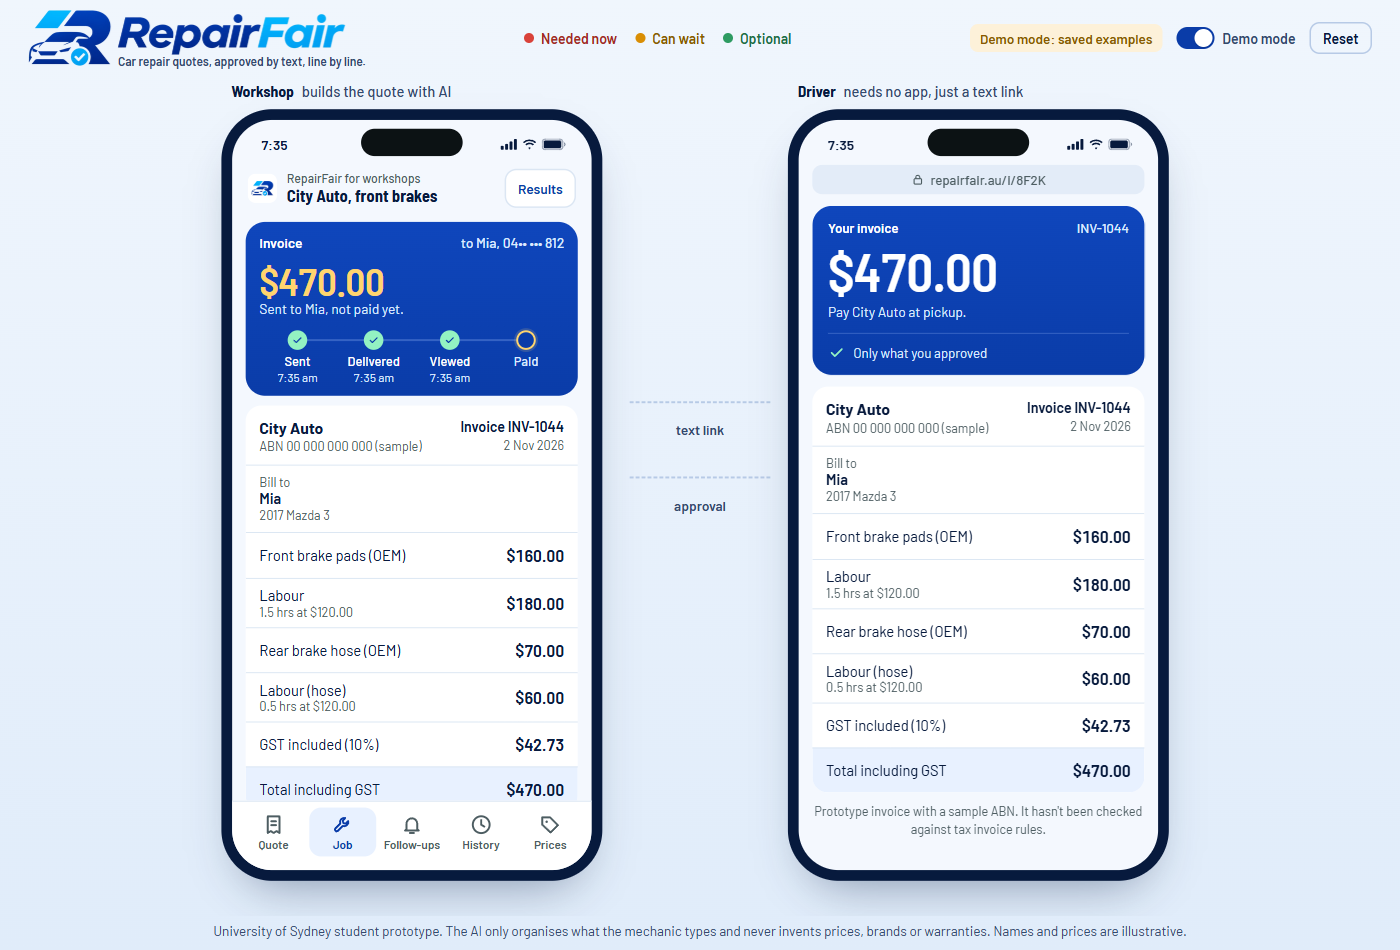
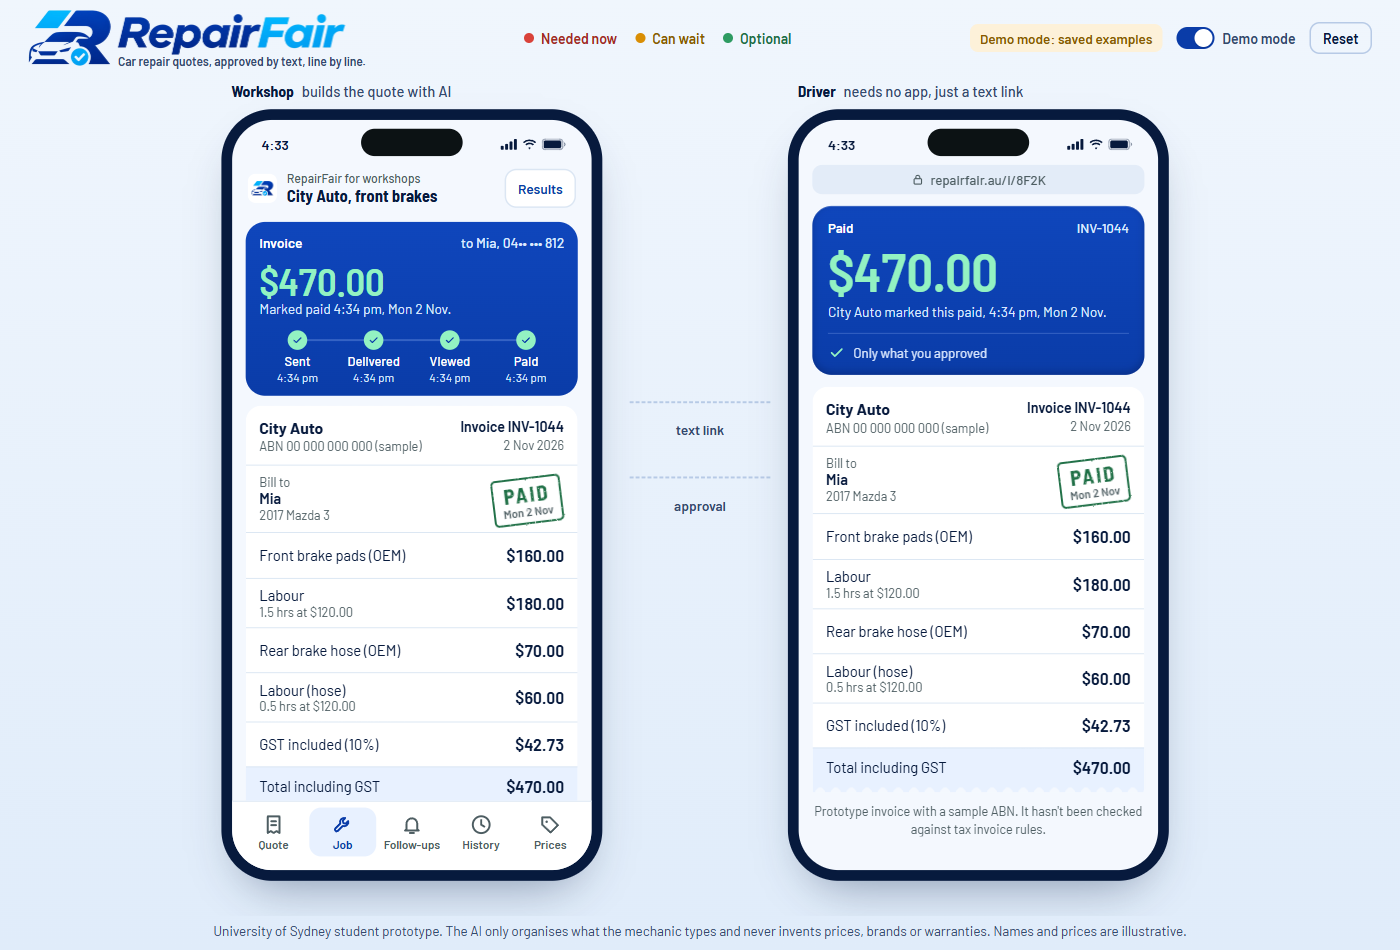
Give the app a hand-built car look

diff --git a/static/app.js b/static/app.js
@@ -22,6 +22,7 @@ const WORKSHOP = "City Auto";
 const SAMPLE_ABN = "00 000 000 000";
 const SAMPLE_PLATE = "DEMO-1044";  // too long to be a real plate, and always shown with "sample"
 const URGENCY = ["needed_now", "to_confirm", "can_wait", "optional"];
+const TACH_TICKS = 34;
 const PHONE_MASK = "04•• ••• 812";
 
 const SEED_HISTORY = [
@@ -73,7 +74,7 @@ const fresh = () => ({
   tab: "quote", ws: "compose", dr: "home", drBanner: null, stage: null, stageAt: {}, readyBy: null,
   notes: DEFAULT_NOTES, extraNotes: DEFAULT_EXTRA, reported: DEFAULT_REPORTED, suggest: null, suggesting: false,
   voice: { mode: "idle", source: null },
-  quote: null, extra: null, source: null, extraSource: null, notice: null, extraNotice: null,
+  shown: 0, quote: null, extra: null, source: null, extraSource: null, notice: null, extraNotice: null,
   err: null, extraResult: null,
   sentAt: null, deliveredAt: null, viewedAt: null, approvedAt: null, xero: null, inv: null, invOpen: false,
   lang: "en", trans: {}, transSource: null, transNotice: null, translating: false,
@@ -397,9 +398,10 @@ function checkPanel(q, group) {
     }).join("")}</div>`;
 }
 // The top of the job, like a job card. The plate's look isn't based on any state's design.
+const plate = () => `<span class="plate"><small>sample</small>${SAMPLE_PLATE}</span>`;
 function jobHead() {
   const q = state.quote;
-  return `<div class="jobhead"><span class="plate"><small>sample</small>${SAMPLE_PLATE}</span>
+  return `<div class="jobhead">${plate()}
     <span class="jh-t"><b>${esc(q.car || "Job 1044")}</b><span>${esc(customer())}${q.car ? ", job 1044" : ""}</span></span></div>`;
 }
 function refreshCheck(group) {
@@ -473,7 +475,7 @@ function wsQuoteTab() {
   switch (state.ws) {
     case "compose":
       // The notes fill the screen like a job card; the build button sits in the dock below
-      return `${wsReported()}<label class="notes-card"><span class="nc-top"><b>Mechanic's notes</b><span>Job 1044, checked in 8:05 am</span></span>
+      return `${wsReported()}<label class="notes-card"><span class="nc-top"><span><b>Mechanic's notes</b><small>Job 1044, checked in 8:05 am</small></span>${plate()}</span>
           <textarea id="notes">${esc(state.notes)}</textarea>
           <span class="photos"><span class="ph">${ic("camera", 18)}</span><span class="ph">${ic("camera", 18)}</span><span class="ph-t">2 photos</span>${voiceControl()}</span>${voiceDone()}</label>${err}`;
     case "loading":
@@ -509,7 +511,8 @@ function wsJobTab() {
   const err = state.err ? `<div class="err">${esc(state.err)}<button class="btn soft" data-act="use-demo">Use saved examples</button></div>` : "";
   if (state.stage == null) return `<div class="blank">${ic("part", 36)}<b>No job in progress</b>A job starts here as soon as a customer approves a quote.</div>`;
   // One panel for the approval (the same lights Mia sees), then the job, then her decisions with their reminders
-  let h = `${jobHead()}<div class="cluster"><div class="cl-top"><b>${esc(customer())} approved</b><span>${esc(timeOf(state.approvedAt))}</span></div>
+  const car = carDiagram([...q.items, ...(state.xSentAt ? x.items : [])], "job");
+  let h = `${jobHead()}<div class="cluster ${car ? "with-car" : ""}"><div class="cl-top"><b>${esc(customer())} approved</b><span>${esc(timeOf(state.approvedAt))}</span></div>${car}
       <div class="readout green">${money(sumApproved(q.items))}</div>
       <div class="cl-sub">Start the work on the approved items only.</div>
       ${lamps(q.items, "ws")}
@@ -562,12 +565,14 @@ function invoice() {
 }
 const invDate = (d) => d.toLocaleDateString("en-AU", { day: "numeric", month: "short", year: "numeric" });
 const invText = (inv) => `Hi ${inv.contact}, your invoice from ${WORKSHOP} is ready: ${cents(inv.total)}. View it here: repairfair.au/i/8F2K`;
+// A rubber stamp, inked by the #ink filter in index.html
+const rubber = (big, small, tilt, cls = "") => `<span class="rubber ${cls}" style="--tilt:${tilt}deg"><b>${esc(big)}</b>${small ? `<small>${esc(small)}</small>` : ""}</span>`;
 const resRow = (label, value, sub) => `<div class="res"><span>${esc(label)}${sub ? `<small>${esc(sub)}</small>` : ""}</span><b>${value}</b></div>`;
 // Shared by both phones. It stays in English whatever language the driver viewed the quote in.
 function invoiceSheet(inv) {
   return `<div class="sheet inv" lang="en">
       <div class="inv-head"><div><b>${WORKSHOP}</b><span>ABN ${SAMPLE_ABN} (sample)</span></div><div class="inv-no"><b>Invoice ${inv.number}</b><span>${esc(invDate(inv.date))}</span></div></div>
-      <div class="inv-to"><span>Bill to</span><b>${esc(inv.contact)}</b>${inv.car ? `<small>${esc(inv.car)}</small>` : ""}</div>
+      <div class="inv-to"><span>Bill to</span><b>${esc(inv.contact)}</b>${inv.car ? `<small>${esc(inv.car)}</small>` : ""}${inv.paidAt ? rubber("Paid", dayOf(inv.paidAt), -7, "green") : ""}</div>
       ${inv.lines.map((l) => resRow(l.desc, cents(l.amount), l.hours ? `${l.qty} hrs at ${cents(l.unit)}` : "")).join("")}
       ${resRow("GST included (10%)", cents(inv.gst))}
       ${resRow("Total including GST", cents(inv.total))}
@@ -739,9 +744,9 @@ function jobTotal(j) { return j.items.filter((i) => i.approved).reduce((s, i) =>
 function wsHistoryTab() {
   const q = state.search.trim().toLowerCase();
   const jobs = state.history.filter((j) => !q || [j.id, j.customer, j.car, j.job, j.invoice?.number, ...j.items.map((i) => i.name)].join(" ").toLowerCase().includes(q));
-  let h = `<input class="search" id="search" placeholder="Search customer, car, job or item" value="${esc(state.search)}">`;
+  let h = `<div class="lbl log-title">Job logbook</div><input class="search" id="search" placeholder="Search customer, car, job or item" value="${esc(state.search)}">`;
   if (!jobs.length) return h + `<div class="small">No jobs match “${esc(state.search)}”.</div>`;
-  h += jobs.map((j) => {
+  h += jobs.map((j, k) => {
     const open = state.open === j.id;
     let d = "";
     if (open) {
@@ -756,7 +761,8 @@ function wsHistoryTab() {
     return `<div class="job ${j.isNew ? "new" : ""}" data-act="job" data-id="${j.id}">
       <div class="jt"><span>${esc(j.job)}${j.isNew ? '<span class="tagnew">New</span>' : ""}</span><span>${money(jobTotal(j))}</span></div>
       <div class="jm">${esc(j.customer)}, ${esc(j.car)}. ${esc(j.date)}, ${j.id}</div>
-      <div class="jp">${ic("check", 16)}Approved by text link, ${esc(j.approvedAt)}${j.extra ? `. Extra ${esc(j.extra.decision)}` : ""}</div>
+      <div class="log-stamps">${rubber("Approved by text", j.approvedAt, [-2, 1.5, -1, 2][k % 4])}${j.invoice?.paidAt ? rubber("Paid", j.invoice.number, -6, "green") : ""}</div>
+      ${j.extra ? `<div class="jp">${ic("check", 16)}Extra ${esc(j.extra.decision)}, ${esc(j.extra.at)}</div>` : ""}
       ${j.invoice ? `<div class="jp">${ic("check", 16)}Invoice ${j.invoice.number}. ${esc(invStatus(j.invoice))}</div>` : ""}${d}</div>`;
   }).join("");
   return h + `<div class="small">Every approval is timestamped and searchable. No more digging through old books.</div>`;
@@ -827,20 +833,42 @@ function wheelClass(items, w) {
 }
 const WHEELS = { fl: [3, 21], fr: [51, 21], rl: [3, 79], rr: [51, 79] };
 // A car from above with its front at the top, like the door warning on a dashboard. Left out when no item has a known place.
-function carDiagram(items) {
+function carDiagram(items, group) {
   if (!items.some((i) => wheelsOf(i).length)) return "";
   return `<svg class="car" viewBox="0 0 64 120" width="64" height="120" role="img" aria-label="Car from above, with the quoted work lit up">
     <path class="car-body" d="M32 3C20 3 13 7 11.5 17L9.5 48V92C9.5 106 13 116 24 117H40C51 116 54.5 106 54.5 92V48L52.5 17C51 7 44 3 32 3Z"/>
     <path class="car-glass" d="M17 47C24 42 40 42 47 47L44 59C36 56 28 56 20 59ZM20 92C28 95 36 95 44 92L47 102C38 106 26 106 17 102Z"/>
     <path class="car-line" d="M20 59V92M44 59V92M10 47L5.5 45M54 47L58.5 45"/>
-    ${Object.entries(WHEELS).map(([w, [x, y]]) => `<rect class="${wheelClass(items, w)}" id="wheel-${w}" x="${x}" y="${y}" width="10" height="21" rx="3.5"/>`).join("")}
+    ${Object.entries(WHEELS).map(([w, [x, y]]) => `<rect class="${wheelClass(items, w)}" id="wheel-${group}-${w}" x="${x}" y="${y}" width="10" height="21" rx="3.5"/>`).join("")}
   </svg>`;
 }
+// The total reads like an odometer: each digit is a drum, and its reel rolls to the new number.
+const odoHTML = (n) => [...money(n)].map((c) => (/\d/.test(c)
+  ? `<span class="drum" aria-hidden="true"><span class="reel" style="transform:translateY(-${c}0%)">${[..."0123456789"].map((d) => `<i>${d}</i>`).join("")}</span></span>`
+  : `<span class="odo-c" aria-hidden="true">${c}</span>`)).join("");
+function rollTotal() {
+  const el = $("drRead"), n = state.quote ? sumApproved(state.quote.items) : 0;
+  if (!el || n === state.shown) return;
+  const reels = [...el.querySelectorAll(".reel")], from = money(state.shown).replace(/\D/g, "").padStart(reels.length, "0").slice(-reels.length);
+  const to = money(n).replace(/\D/g, "");
+  state.shown = n;
+  if (M && !still) reels.forEach((r, k) => M.animate(r, { transform: [`translateY(-${from[k]}0%)`, `translateY(-${to[k]}0%)`] }, { duration: 0.6, delay: (reels.length - k) * 0.05, ease: EASE_OUT }));
+}
+// A strip of ticks like a rev counter, filled to the share of the quote being approved
+const tachLit = (q) => (sumAll(q.items) ? Math.round((sumApproved(q.items) / sumAll(q.items)) * TACH_TICKS) : 0);
+const tach = (q) => `<div class="tach" id="drTach" aria-hidden="true">${Array.from({ length: TACH_TICKS }, (_, k) => `<i class="${k < tachLit(q) ? "on" : ""}" style="--k:${k}"></i>`).join("")}</div>`;
+// Turning the key: every light comes on for a moment and the strip sweeps up, then they settle on the real state.
+function keyOn() {
+  const panel = $("dr").querySelector(".cluster");
+  later(120, () => panel.classList.add("keyon"));
+  later(820, () => panel.classList.remove("keyon"));
+}
 function drQuotePanel(q) {
-  const car = carDiagram(q.items);
+  const car = carDiagram(q.items, "quote");
   return `<div class="cluster ${car ? "with-car" : ""}"><div class="cl-top"><b>City Auto</b><span>${esc(q.job_title)}</span></div>${car}
-    <div class="readout" id="drRead">${money(sumApproved(q.items))}</div>
+    <div class="readout odo" id="drRead" role="img" aria-label="${money(sumApproved(q.items))}">${odoHTML(sumApproved(q.items))}</div>
     <div class="cl-sub" id="drSub">to approve today, out of ${money(sumAll(q.items))} quoted</div>
+    ${tach(q)}
     ${lamps(q.items, "quote")}
     <div class="cl-foot">${ic("check", 18)}Checked by a City Auto mechanic before it was sent</div>
     ${fairSummary(q.items) ? `<div class="cl-foot">${ic("check", 18)}${fairSummary(q.items)}</div>` : ""}</div>`;
@@ -853,10 +881,11 @@ function toggleItem(group, i) {
   row.classList.toggle("off", !it.approved);
   row.querySelector(".sw").setAttribute("aria-checked", it.approved);
   $(`lamp-${group}-${i}`).classList.toggle("on", it.approved);
-  Object.keys(WHEELS).forEach((w) => $(`wheel-${w}`)?.setAttribute("class", wheelClass(state.quote.items, w)));
-  const read = $("drRead");
-  read.textContent = money(sumApproved(state.quote.items));
-  pulse(read);
+  Object.keys(WHEELS).forEach((w) => $(`wheel-quote-${w}`)?.setAttribute("class", wheelClass(state.quote.items, w)));
+  const read = $("drRead"), total = sumApproved(state.quote.items), lit = tachLit(state.quote);
+  read.innerHTML = odoHTML(total); read.setAttribute("aria-label", money(total));
+  rollTotal();
+  [...$("drTach").children].forEach((t, k) => t.classList.toggle("on", k < lit));
   renderDriverChrome();
 }
 
@@ -918,7 +947,7 @@ function renderDriver() {
         <div class="small">Nothing starts until you approve. Your approval is saved with the quote.</div>
         <div class="small">Typical part prices are sample data for this demo. The labour range comes from published workshop rates.</div>`;
     case "approved":
-      return `<div class="cluster"><div class="cl-top"><b>You approved</b><span>${esc(carName())}</span></div>
+      return `<div class="cluster with-car"><div class="cl-top"><b>You approved</b><span>${esc(carName())}</span></div>${carDiagram(q.items, "done")}
           <div class="readout green">${money(sumApproved(q.items))}</div>
           <div class="cl-sub">City Auto has your approval in writing.</div>
           ${lamps(q.items, "done")}
@@ -927,7 +956,7 @@ function renderDriver() {
         <div class="lbl">Your decisions</div><div class="sheet">${decisions(decItems(q.items))}</div>
         ${drFollowups()}`;
     case "extra":
-      return `<div class="cluster"><div class="cl-top"><b>Found mid-job</b><span>${esc(q.job_title)}</span></div>
+      return `<div class="cluster with-car"><div class="cl-top"><b>Found mid-job</b><span>${esc(q.job_title)}</span></div>${carDiagram(x.items.map((it) => ({ ...it, approved: true })), "extra")}
           <div class="readout">${money(sumAll(x.items))}</div>
           <div class="cl-sub"><b>${esc(x.items[0].name)}</b> needs your OK before City Auto continues.</div>
           ${lamps(x.items.map((it) => ({ ...it, approved: true })), "extra")}</div>
@@ -1024,6 +1053,8 @@ function render() {
   const drChanged = state.dr !== lastDr;
   $("dr").innerHTML = `<div>${renderDriver()}</div>`;
   if (drChanged) { $("dr").scrollTop = 0; enter($("dr").firstElementChild); }
+  if (drChanged && state.dr === "quote" && !still) keyOn();
+  rollTotal();
   lastDr = state.dr;
   renderDriverChrome();
   renderWsDock();
@@ -1039,7 +1070,11 @@ function enter(el) {
   if (!M || still || !el) return;
   M.animate([...el.children], { opacity: [0, 1], transform: ["translateY(8px)", "none"] }, { duration: 0.28, delay: M.stagger(0.035), ease: EASE_OUT });
 }
-function pulse(el) { if (M && !still && el) M.animate(el, { opacity: [0.4, 1], transform: ["translateY(-4px)", "none"] }, { duration: 0.2, ease: EASE_OUT }); }
+// A stamp lands hard and fast
+function thump() {
+  if (still) return;
+  document.querySelectorAll(".inv .rubber").forEach((s) => s.animate([{ scale: 1.8, opacity: 0 }, { scale: 1, opacity: 1 }], { duration: 200, easing: "cubic-bezier(.5,0,.9,.4)" }));
+}
 const doc = (name) => (name === "extra" ? state.extra : state.quote);
 const grp = (name) => doc(name).items;
 
@@ -1176,7 +1211,7 @@ document.addEventListener("click", (e) => {
     later(500, () => toast(`Invoice sent to ${customer()}`));
   }
   if (act === "open-invoice") { state.drBanner = null; state.dr = "invoice"; state.inv.viewedAt ||= new Date(); }
-  if (act === "inv-paid") { state.inv.paidAt = new Date(); fly("packetOut"); toast(`Invoice ${state.inv.number} marked paid`); }
+  if (act === "inv-paid") { state.inv.paidAt = new Date(); fly("packetOut"); toast(`Invoice ${state.inv.number} marked paid`); render(); thump(); return; }
   if (act === "xero-open") { state.xero = "preview"; $("ws").scrollTop = 0; }
   if (act === "xero-send") { state.xero = "sent"; $("ws").scrollTop = 0; }
   if (act === "xero-close") state.xero = null;

diff --git a/static/style.css b/static/style.css
@@ -540,7 +540,9 @@ textarea:disabled { color: var(--muted); background: var(--grey-bg); }
 
 /* job card header: a sample plate, the car and the job */
 .jobhead { display: flex; align-items: center; gap: 10px; margin: 2px 2px 10px; }
-.plate { flex: none; display: inline-flex; flex-direction: column; align-items: center; background: #fff; border: 1.5px solid var(--ink); border-radius: 6px; padding: 2px 8px 4px; color: var(--ink); font: 700 17px/1 var(--display); letter-spacing: .6px; white-space: nowrap; }
+.plate { position: relative; flex: none; display: inline-flex; flex-direction: column; align-items: center; background: #fff; border: 1.5px solid var(--ink); border-radius: 6px; padding: 2px 13px 4px; color: var(--ink); font: 700 17px/1 var(--display); letter-spacing: .6px; white-space: nowrap; text-shadow: 0 1px 0 #fff; box-shadow: inset 0 0 0 2px #fff, inset 0 0 0 3px var(--line); }
+.plate::before, .plate::after { content: ""; position: absolute; top: 50%; width: 4px; height: 4px; margin-top: -2px; border-radius: 50%; background: radial-gradient(circle at 35% 30%, #fff, var(--faint) 75%); }
+.plate::before { left: 5px; } .plate::after { right: 5px; }
 .plate small { font-family: Barlow, sans-serif; font-size: 11px; font-weight: 600; line-height: 1.2; color: var(--muted); letter-spacing: 0; }
 .jh-t { min-width: 0; line-height: 1.25; }
 .jh-t b { display: block; font-size: 15px; font-weight: 600; color: var(--ink); }
@@ -556,4 +558,54 @@ textarea:disabled { color: var(--muted); background: var(--grey-bg); }
 .wheel { fill: var(--cl-off); stroke: var(--cluster); stroke-width: 1.5; transition: fill .2s var(--ease-out), stroke .2s var(--ease-out); }
 .wheel.quoted { fill: var(--cluster); stroke: var(--cl-soft); }
 .wheel.on { stroke: var(--cluster); }
-.wheel.on.needed_now { fill: var(--lit-red); } .wheel.on.can_wait { fill: var(--lit-amber); } .wheel.on.optional { fill: var(--lit-green); } .wheel.on.to_confirm { fill: var(--cl-ink); }
+.wheel.on.needed_now { fill: var(--lit-red); color: var(--lit-red); } .wheel.on.can_wait { fill: var(--lit-amber); color: var(--lit-amber); } .wheel.on.optional { fill: var(--lit-green); color: var(--lit-green); } .wheel.on.to_confirm { fill: var(--cl-ink); color: var(--cl-ink); }
+
+/* the dashboard: lit lamps glow, and the panel has an edge like a moulded binnacle */
+:root { --cl-well: #06296F; }
+.cluster { box-shadow: inset 0 1px 0 rgba(255,255,255,.2), inset 0 -3px 8px rgba(3,18,60,.3); }
+.lamp.on .i { filter: drop-shadow(0 0 5px currentColor); }
+.wheel.on { filter: drop-shadow(0 0 3px currentColor); }
+
+/* odometer total: each digit is a drum in a dark window */
+.readout.odo { display: flex; align-items: center; gap: 3px; font-size: 46px; letter-spacing: 0; }
+.odo-c { padding-right: 2px; }
+.drum { display: inline-block; width: .64em; height: 1.2em; overflow: hidden; border-radius: 6px; background: linear-gradient(180deg, #031A4D 0%, var(--cl-well) 26%, #0A3796 50%, var(--cl-well) 74%, #031A4D 100%); box-shadow: inset 0 0 0 1px rgba(255,255,255,.1), 0 1px 0 rgba(255,255,255,.14); }
+.reel { display: block; }
+.reel i { display: block; height: 1.2em; line-height: 1.2em; text-align: center; font-style: normal; }
+
+/* rev counter strip */
+.tach { display: flex; align-items: flex-end; gap: 3px; height: 13px; margin-top: 9px; }
+.with-car .tach { margin-right: 74px; }
+.tach i { flex: 1; height: 8px; border-radius: 1px; background: var(--cl-off); opacity: .55; transition: background .12s var(--ease-out) calc(var(--k) * 7ms), opacity .12s var(--ease-out) calc(var(--k) * 7ms); }
+.tach i:nth-child(6n+1) { height: 13px; }
+.tach i.on { background: var(--cl-ink); opacity: 1; }
+
+/* key on: every light up for a moment */
+.keyon .lamp { color: var(--cl-ink); }
+.keyon .wheel { fill: var(--cl-ink); stroke: var(--cluster); }
+.keyon .tach i { background: var(--cl-ink); opacity: 1; }
+
+/* rubber stamps */
+.rubber { display: inline-block; rotate: var(--tilt, -3deg); padding: 3px 8px 4px; border: 2px solid currentColor; border-radius: 5px; color: var(--brand-700); text-align: center; line-height: 1.1; filter: url(#ink); }
+.rubber b { display: block; font: 700 13.5px/1.15 var(--display); letter-spacing: .9px; text-transform: uppercase; white-space: nowrap; }
+.rubber small { display: block; font-size: 11.5px; font-weight: 600; white-space: nowrap; }
+.rubber.green { color: var(--green-t); }
+
+/* paper: a perforated job card and a punched logbook */
+.notes-card { position: relative; padding-top: 19px; }
+.notes-card::before { content: ""; position: absolute; top: 8px; left: 14px; right: 14px; height: 5px; background: radial-gradient(circle, var(--grey-bg) 2px, transparent 2.5px) 0 0 / 11px 5px repeat-x; }
+.nc-top { align-items: center; }
+.nc-top small { display: block; font-size: 13px; color: var(--muted); }
+.log-title { margin-top: 2px; font: 600 21px/1.2 var(--display); }
+.job { padding-left: 36px; background: radial-gradient(circle at 13px 24px, var(--grey-bg) 4.5px, transparent 5px), radial-gradient(circle at 13px calc(100% - 24px), var(--grey-bg) 4.5px, transparent 5px), linear-gradient(90deg, transparent 26px, var(--brand-100) 26px 27.5px, transparent 27.5px), #fff; }
+.job .jd { margin-left: -22px; padding-left: 0; background: #fff; }
+.log-stamps { display: flex; flex-wrap: wrap; align-items: center; gap: 10px; margin: 9px 0 3px 1px; }
+
+/* invoice: a torn-off bottom edge, with the stamp on the bill-to line */
+.sheet.inv { border-radius: 16px 16px 0 0; -webkit-mask: radial-gradient(circle 5px at 8px 100%, transparent 96%, #000) 0 0 / 16px 100%; mask: radial-gradient(circle 5px at 8px 100%, transparent 96%, #000) 0 0 / 16px 100%; }
+.inv .res:last-child { padding-bottom: 14px; }
+.inv-to { position: relative; }
+.inv-to .rubber { position: absolute; right: 16px; top: 12px; }
+.inv-to .rubber b { font-size: 21px; letter-spacing: 2px; }
+.tach + .lights { margin-top: 6px; }
+.notes-card textarea { min-height: 168px; }

diff --git a/static/index.html b/static/index.html
@@ -10,6 +10,13 @@
 <body>
   <!-- Icon set: drawn for RepairFair. Warning-light style marks for items, plus a few interface glyphs. -->
   <svg width="0" height="0" style="position:absolute" aria-hidden="true">
+    <!-- rubber stamp ink: rough edges and tiny gaps where the ink didn't take -->
+    <filter id="ink" x="-5%" y="-10%" width="110%" height="120%">
+      <feTurbulence type="fractalNoise" baseFrequency="0.85" numOctaves="2" seed="4" result="n"/>
+      <feDisplacementMap in="SourceGraphic" in2="n" scale="1.6" result="edge"/>
+      <feColorMatrix in="n" type="matrix" values="0 0 0 0 0  0 0 0 0 0  0 0 0 0 0  6 0 0 0 -1.1" result="gaps"/>
+      <feComposite in="edge" in2="gaps" operator="in"/>
+    </filter>
     <symbol id="i-brake" viewBox="0 0 24 24"><g fill="none" stroke="currentColor" stroke-width="2" stroke-linecap="round"><circle cx="12" cy="12" r="6.5"/><path d="M4.3 6.4a10 10 0 0 0 0 11.2M19.7 6.4a10 10 0 0 1 0 11.2M12 8.8v3.8"/><circle cx="12" cy="15.3" r=".4" fill="currentColor"/></g></symbol>
     <symbol id="i-rotor" viewBox="0 0 24 24"><g fill="none" stroke="currentColor" stroke-width="2"><circle cx="12" cy="12" r="8.6"/><circle cx="12" cy="12" r="3"/></g><g fill="currentColor"><circle cx="12" cy="6.4" r="1"/><circle cx="17.6" cy="12" r="1"/><circle cx="12" cy="17.6" r="1"/><circle cx="6.4" cy="12" r="1"/></g></symbol>
     <symbol id="i-fluid" viewBox="0 0 24 24"><path d="M12 3.5c3.2 4.2 5.6 7 5.6 10.1a5.6 5.6 0 0 1-11.2 0c0-3.1 2.4-5.9 5.6-10.1z" fill="none" stroke="currentColor" stroke-width="2" stroke-linejoin="round"/></symbol>

diff --git a/docs/how-it-works.md b/docs/how-it-works.md
@@ -106,7 +106,9 @@ RepairFair is a small web app. A Python server passes the mechanic's notes to th
 
 **Voice notes.** The browser records with `MediaRecorder`, and `/api/transcribe` sends the audio to OpenAI and returns text for the notes box. The server keeps the audio in memory for that request only, and the browser drops it, so only the text remains.
 
-**Car diagram.** `carDiagram()` draws a car from above in Mia's panel, as inline SVG with no text on it, so it reads the same in every language. `wheelsOf()` gives an item's wheels only when its name clearly says where, such as "Front brake pads" or "Rear brake hose". Labour, brake fluid and anything unclear get no highlight, and the car is left out if no item has a known place. A wheel lights in the urgency colour of the most urgent item switched on there, and a wheel with its items switched off keeps a ring.
+**Car diagram.** `carDiagram()` draws a car from above in Mia's panel, as inline SVG with no text on it, so it reads the same in every language. `wheelsOf()` gives an item's wheels only when its name clearly says where, such as "Front brake pads" or "Rear brake hose". Labour, brake fluid and anything unclear get no highlight, and the car is left out if no item has a known place. A wheel lights in the urgency colour of the most urgent item switched on there, and a wheel with its items switched off keeps a ring. The car also appears on Mia's approved and extra-item screens and on the workshop's Job panel, where an extra item's wheels show a ring until she approves it.
+
+**Car details.** These are hand-built with no extra library. `odoHTML()` turns each digit of Mia's total into a drum, and `rollTotal()` rolls the reels to the new number. `tach()` is a strip of ticks filled to the share of the quote she's approving. `keyOn()` lights everything for a moment when the quote opens, like turning the key. `rubber()` makes a stamp, and the `#ink` SVG filter in `index.html` roughens its edges and leaves small gaps in the ink. History is a punched logbook, and the invoice gets a Paid stamp and a torn-off bottom edge. Anyone who has asked their device for reduced motion gets the final state with no animation.
 
 **Job header.** `jobHead()` shows a plate, the car and the job number at the top of the job on both phones. The plate DEMO-1044 is a sample, labelled as one, and its plain look isn't based on any state's design.
 

diff --git a/README.md b/README.md
@@ -84,7 +84,9 @@ answers, not sales.
 - **Offline:** fonts (Barlow, SIL Open Font License) and the Motion animation library (MIT) are stored in
   `static/vendor/`.
 - **Design:** each screen leads with a deep blue "instrument panel" showing the number that matters and warning
-  lights, above plain lists with normal phone controls. Colour only means urgency or state.
+  lights, above plain lists with normal phone controls. Colour only means urgency or state. The car details are hand-built
+  in CSS and SVG: odometer digits that roll, a rev counter strip, lights that sweep on like turning the key, a paper job
+  card, a punched logbook and inked rubber stamps.
 - Built with AI coding assistance (Claude Code).
 
 For a plain-English guide to the setup, see [docs/how-it-works.md](docs/how-it-works.md).
